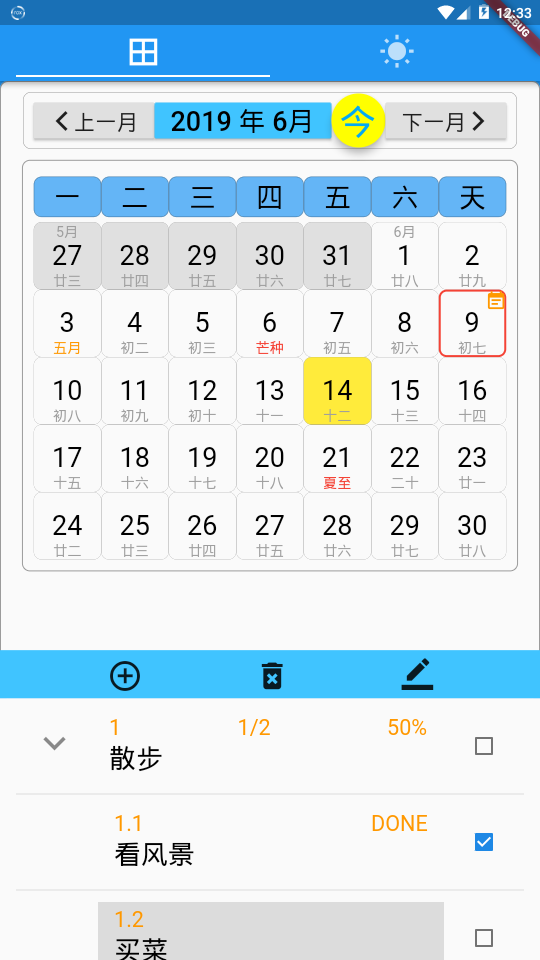
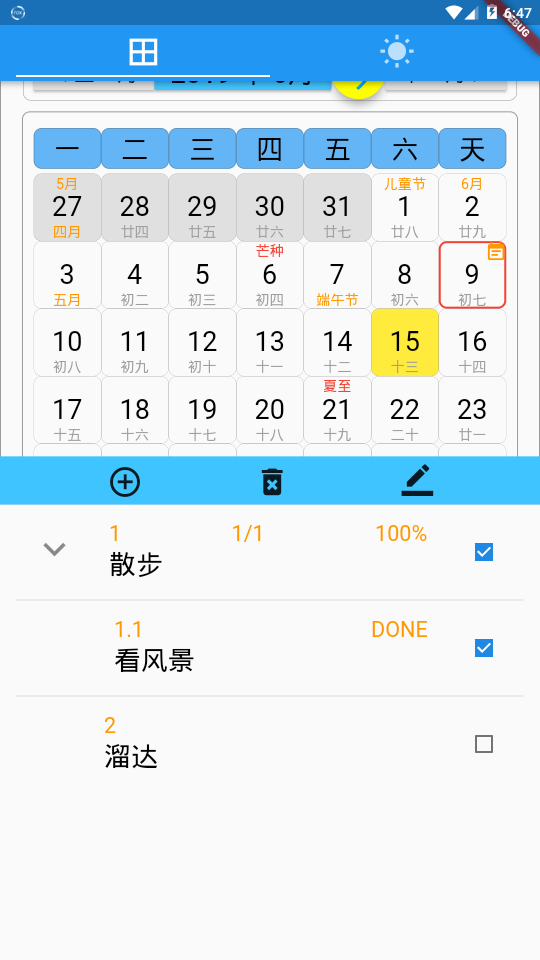
修改任务选中后的显示效果

diff --git a/lib/my_task_view.dart b/lib/my_task_view.dart
@@ -162,19 +162,19 @@ class MyExpansionTileItemState extends State<_MyExpansionTileItem> {
     var children = <Widget>[
       Container(
           padding: EdgeInsets.fromLTRB(10.0 * (widget._treeLinePosition.length - 1), 0, 0, 0),
+          color: _selected ? Colors.tealAccent : null,
           child: ListTile(
               leading: leadingIcon,
               title: GestureDetector(
                   child: Container(
-                      color: _selected ? Colors.black12 : null,
                       child: ListTile(
-                        title: Row(mainAxisAlignment: MainAxisAlignment.spaceBetween, children: [
-                          Text(degreeString, style: TextStyle(fontSize: width / 25, color: Colors.orange)),
-                          Text(midStr, style: TextStyle(fontSize: width / 25, color: Colors.orange)),
-                          Text(tailStr, style: TextStyle(fontSize: width / 25, color: Colors.orange)),
-                        ]),
-                        subtitle: Text(entry.content, style: TextStyle(fontSize: width / 20, color: fontColor)),
-                      )),
+                    title: Row(mainAxisAlignment: MainAxisAlignment.spaceBetween, children: [
+                      Text(degreeString, style: TextStyle(fontSize: width / 25, color: Colors.orange)),
+                      Text(midStr, style: TextStyle(fontSize: width / 25, color: Colors.orange)),
+                      Text(tailStr, style: TextStyle(fontSize: width / 25, color: Colors.orange)),
+                    ]),
+                    subtitle: Text(entry.content, style: TextStyle(fontSize: width / 20, color: fontColor)),
+                  )),
                   onTap: () {
                     _selected = !_selected;
                     if (_selected) {
